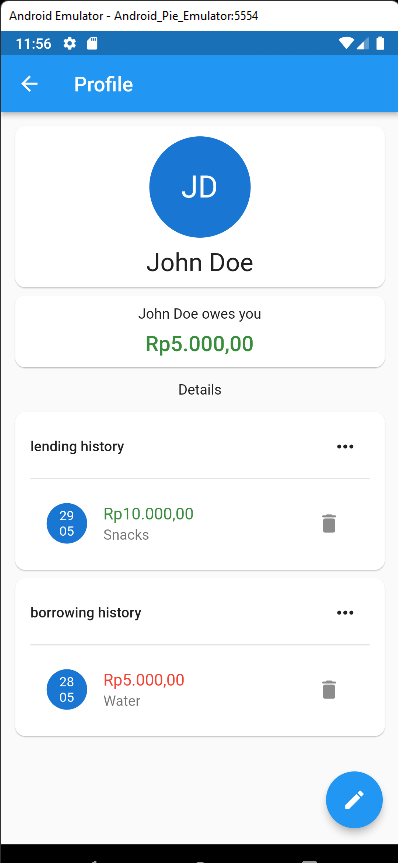
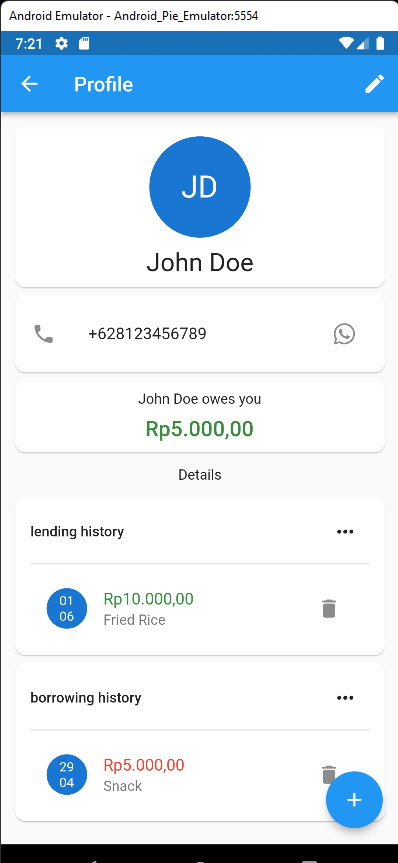
Update README

diff --git a/README.md b/README.md
@@ -6,13 +6,15 @@ Debting is a basic mobile application intended to track lending or borrowing mon
 
 Features in Debting:
 
-1. Create a contact (person who you owe to or owes you).
+1. Create, update, and delete a contact (person who you owe to or owes you).
 
 2. Create, update, and delete a debt.
 
 3. View list of debts.
 
 4. View aggregate of your debts, for each person or in total.
+
+5. Chat someone from contact via Whatsapp (currently only available to Indonesian phone number).
 
 ## Screenshots
 
